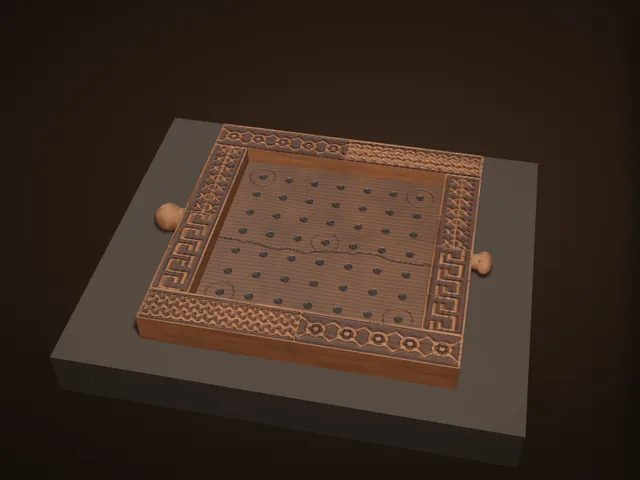
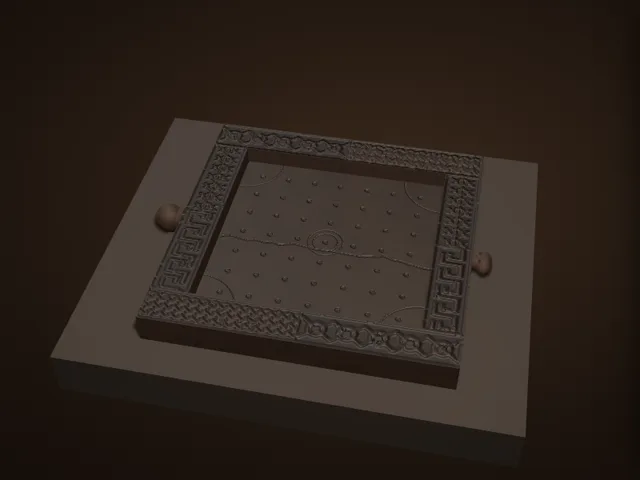
博物館：バリンダリーの盤の色・盤面の印・穴・彫りの摩耗を3Dスキャンに合わせて修正
Claude-Session: https://claude.ai/code/session_01EiWRAZTxRF5M5nk5vdR2jJ

Changed region(s): [[0.1875, 0.25, 0.7812, 0.8125]]

diff --git a/atlas/museum/ex/ballinderry.js b/atlas/museum/ex/ballinderry.js
@@ -4,7 +4,9 @@
    eight carved panels — plain five- and six-strand interlace, Borre-style ring-chain at two opposite corners, a "vertebral"
    pattern and a key pattern (NMI; 1932 report); a rough human head projecting from one edge, a smaller animal head from the
    opposite edge (handles). Estimates: the thickness and frame height (after a published replica: 2.5 cm, the frame raised
-   1.5 cm), the hole pitch, which panel sits where, the drawing of each pattern, the line of the break and the heads' features. */
+   1.5 cm), the hole pitch, which panel sits where, the drawing of each pattern, the line of the break and the heads' features.
+   2026-11-21: colour, the marks on the panel (two rings at the centre, quarter-circles across the corners), the small holes and the
+   worn relief checked against the Discovery Programme / NMI 3D scan (Sketchfab). */
 (function () {
   'use strict';
   (window.AtlasEx = window.AtlasEx || {}).ballinderry = {
@@ -13,7 +15,7 @@
       const S = 24, FW = 3.1, T0 = 1.0, T1 = 2.5, IN = S - FW * 2, P = 2.35;
       // ---- yew: warm orange-brown, darkened by a thousand years in the bog; the heartwood streaks
       const yew = (seed, dark) => K.tex(1024, 1024, (g, w, h) => {
-        K.grain(g, w, h, { a: dark ? '#3e2716' : '#5e3e26', b: dark ? '#2a1a0e' : '#3e2716', seed, sx: 1, sy: 44, warp: .22, pores: .003 });
+        K.grain(g, w, h, { a: dark ? '#2e261e' : '#3a3026', b: dark ? '#241d16' : '#271f17', seed, sx: 1, sy: 44, warp: .22, pores: .003 });   // grey-brown, as in the 3D scan
         const n = K.noise(seed + 5), img = g.getImageData(0, 0, w, h), d = img.data;
         for (let y = 0; y < h; y++) for (let x = 0; x < w; x++) { const a = n(x / 160, y / 160, 4), k = .82 + a * .3, i = (y * w + x) * 4; d[i] *= k; d[i + 1] *= k * .97; d[i + 2] *= k * .94; }
         g.putImageData(img, 0, 0);
@@ -70,36 +72,37 @@
           if (p === 'plait5') PAT.plait(b, x, y, w, h, 5); else if (p === 'plait6') PAT.plait(b, x, y, w, h, 6); else PAT[p](b, x, y, w, h);
           b.restore(); });
         // a thousand years of wear: the relief softened, chips in places
-        b.filter = 'blur(1.5px)'; b.drawImage(bc, 0, 0); b.filter = 'none';
-        b.fillStyle = 'rgba(0,0,0,.5)'; for (let q = 0; q < 26; q++) { b.beginPath(); b.ellipse(Math.random() * W, Math.random() * H, 4 + Math.random() * 16, 3 + Math.random() * 7, Math.random() * 3, 0, 6.29); b.fill(); }
+        b.filter = 'blur(3px)'; b.drawImage(bc, 0, 0); b.filter = 'none';
+        b.fillStyle = 'rgba(0,0,0,.45)'; for (let q = 0; q < 60; q++) { b.beginPath(); b.ellipse(Math.random() * W, Math.random() * H, 4 + Math.random() * 16, 3 + Math.random() * 7, Math.random() * 3, 0, 6.29); b.fill(); }
         const map = K.tex(W, H, (g, w, h) => {
           g.drawImage(frameMap.image, 0, k * 200, 1024, 136, 0, 0, w, h);
           const mk = document.createElement('canvas'); mk.width = w; mk.height = h; const mg = mk.getContext('2d');
-          mg.fillStyle = '#7d6a5a'; mg.fillRect(0, 0, w, h); mg.globalCompositeOperation = 'lighter'; mg.drawImage(bc, 0, 0);
+          mg.fillStyle = '#6e665a'; mg.fillRect(0, 0, w, h); mg.globalAlpha = .45; mg.globalCompositeOperation = 'lighter'; mg.drawImage(bc, 0, 0); mg.globalAlpha = 1;
           g.globalCompositeOperation = 'multiply'; g.drawImage(mk, 0, 0); g.globalCompositeOperation = 'source-over';
         });
         const bump = new TT.CanvasTexture(bc); bump.colorSpace = TT.NoColorSpace;
-        return K.mat({ map, bumpMap: bump, bumpScale: 4, color: '#ffffff', roughness: .72 });
+        return K.mat({ map, bumpMap: bump, bumpScale: 4, color: '#b09a84', roughness: .72 });
       };
-      const wood = K.mat({ map: frameMap, color: '#ffffff', roughness: .75 });
+      const wood = K.mat({ map: frameMap, color: '#b09a84', roughness: .75 });
       // ---- the playing panel: dark, 49 holes, arcs round the centre and corner holes, the crack across it
       const PX = 1024, crack = [];
       { let x = 0, y = PX * .56; crack.push([x, y]); while (x < PX) { x += 18 + Math.random() * 30; y += (Math.random() - .5) * 26; crack.push([x, y]); } }
       const hole = (i, j) => [PX / 2 + (i - 3) * P / IN * PX, PX / 2 + (j - 3) * P / IN * PX];
       const drawPanel = (g, bump) => {
         if (bump) { g.fillStyle = '#909090'; g.fillRect(0, 0, PX, PX); } else g.drawImage(panelMap.image, 0, 0, PX, PX);
-        const r = .3 / IN * PX, ink = bump ? '#000' : 'rgba(10,5,2,.95)', cut = bump ? '#303030' : 'rgba(30,16,8,.55)';
+        const r = .2 / IN * PX, ink = bump ? '#000' : 'rgba(14,10,6,.85)', cut = bump ? '#303030' : 'rgba(22,16,10,.6)';
         // incised arcs: a ring round the centre hole, and an arc round each corner hole
         g.strokeStyle = cut; g.lineWidth = 3.5;
-        const [cx, cy] = hole(3, 3), R = P * .48 / IN * PX; g.beginPath(); g.arc(cx, cy, R, 0, 6.29); g.stroke();
-        [[0, 0, 0], [6, 0, 1], [6, 6, 2], [0, 6, 3]].forEach(([i, j, q]) => { const [x, y] = hole(i, j); g.beginPath(); g.arc(x, y, R, 0, 6.29); g.stroke(); });
+        // (after the 3D scan: two rings round the centre hole; at each corner a quarter-circle across the corner, centred on the panel's corner)
+        const [cx, cy] = hole(3, 3), R = P * .62 / IN * PX; g.beginPath(); g.arc(cx, cy, R, 0, 6.29); g.stroke(); g.beginPath(); g.arc(cx, cy, R * .7, 0, 6.29); g.stroke();
+        const RQ = P * 1.45 / IN * PX; [[0, 0, 0], [PX, 0, 1], [PX, PX, 2], [0, PX, 3]].forEach(([x, y, q]) => { g.beginPath(); g.arc(x, y, RQ, q * Math.PI / 2, q * Math.PI / 2 + Math.PI / 2); g.stroke(); });
         for (let i = 0; i < 7; i++) for (let j = 0; j < 7; j++) { const [x, y] = hole(i, j); g.fillStyle = ink; g.beginPath(); g.arc(x, y, r, 0, 6.29); g.fill();
-          if (!bump) { g.strokeStyle = 'rgba(150,100,60,.35)'; g.lineWidth = 2; g.beginPath(); g.arc(x - 1, y - 1, r + 1.5, Math.PI, Math.PI * 1.6); g.stroke(); } }
+          if (!bump) { g.strokeStyle = 'rgba(150,130,100,.3)'; g.lineWidth = 2; g.beginPath(); g.arc(x - 1, y - 1, r + 1.5, Math.PI, Math.PI * 1.6); g.stroke(); } }
         // the break (the board was found in two pieces)
         g.strokeStyle = bump ? '#000' : 'rgba(8,4,2,.9)'; g.lineWidth = bump ? 7 : 4; g.beginPath(); crack.forEach(([x, y], k) => k ? g.lineTo(x, y) : g.moveTo(x, y)); g.stroke();
       };
       const pMap = K.tex(PX, PX, g => drawPanel(g, false)), pBump = K.tex(PX, PX, g => drawPanel(g, true), { data: true });
-      const panel = K.mat({ map: pMap, bumpMap: pBump, bumpScale: 3.5, color: '#ffffff', roughness: .7 });
+      const panel = K.mat({ map: pMap, bumpMap: pBump, bumpScale: 3.5, color: '#b09a84', roughness: .7 });
       const add = (geo, m, x, y, z) => { const o = new TT.Mesh(geo, m); o.position.set(x, y, z); o.castShadow = o.receiveShadow = true; G.add(o); return o; };
       add(new TT.BoxGeometry(IN, T0, IN), [wood, wood, panel, wood, wood, wood], 0, T0 / 2, 0);
       // the four frame sides (mitred look: the top textures meet at the corners); each top carries two carved panels
@@ -109,7 +112,7 @@
       // the heads are carved from the end grain: a softer, blotchier surface than the long grain of the frame
       const knob = K.tex(512, 256, (g, w, h) => { const n = K.noise(77), img = g.createImageData(w, h), d = img.data;
         for (let y = 0; y < h; y++) for (let x = 0; x < w; x++) { const a = n(x / 30, y / 30, 4), r = n(x / 6, y / 60, 2), k = .75 + a * .35 + (r - .5) * .12, i = (y * w + x) * 4;
-          d[i] = 92 * k; d[i + 1] = 60 * k; d[i + 2] = 36 * k; d[i + 3] = 255; } g.putImageData(img, 0, 0); });
+          d[i] = 58 * k; d[i + 1] = 46 * k; d[i + 2] = 34 * k; d[i + 3] = 255; } g.putImageData(img, 0, 0); });
       const headM = (human) => { const draw = (g, w, h, bump) => {
           if (bump) { g.fillStyle = '#808080'; g.fillRect(0, 0, w, h); } else g.drawImage(knob.image, 0, 0, w, h);
           const c = w * .25, lo = bump ? '#202020' : 'rgba(26,12,5,.7)'; g.fillStyle = lo; g.strokeStyle = lo; g.lineCap = 'round';
@@ -123,8 +126,8 @@
             [-1, 1].forEach(s => { g.beginPath(); g.ellipse(c + s * 6, h * .52, 3, 2.2, 0, 0, 6.29); g.fill(); });
           }
         };
-        return K.mat({ map: K.tex(512, 256, (g, w, h) => draw(g, w, h, false)), bumpMap: K.tex(512, 256, (g, w, h) => draw(g, w, h, true), { data: true }), bumpScale: 3, color: '#ffffff', roughness: .74 }); };
-      const knobM = K.mat({ map: knob, color: '#ffffff', roughness: .76 });
+        return K.mat({ map: K.tex(512, 256, (g, w, h) => draw(g, w, h, false)), bumpMap: K.tex(512, 256, (g, w, h) => draw(g, w, h, true), { data: true }), bumpScale: 3, color: '#b09a84', roughness: .74 }); };
+      const knobM = K.mat({ map: knob, color: '#b09a84', roughness: .76 });
       const mesh = (geo, m, x, y, z) => { const o = new TT.Mesh(geo, m); o.position.set(x, y, z); o.castShadow = o.receiveShadow = true; return o; };
       // the human head (west edge, the larger handle)
       { const h = new TT.Group(); h.position.set(-S / 2 - 1.2, 1.3, 0);

diff --git a/atlas/museum.js b/atlas/museum.js
@@ -32,7 +32,7 @@
   const ROOMS = [
     { id: 'map', ready: () => !!window.AtlasMap, render: (el, c) => AtlasMap.render(el, c) },
     { id: 'tree', src: ['museum/tree.js?v=2'], ready: () => !!window.AtlasTree, render: (el, c) => AtlasTree.render(el, c) },
-    { id: 'gallery', src: ['museum/gallery.js?v=21'], ready: () => !!window.AtlasGallery, render: (el, c) => AtlasGallery.render(el, c) },
+    { id: 'gallery', src: ['museum/gallery.js?v=22'], ready: () => !!window.AtlasGallery, render: (el, c) => AtlasGallery.render(el, c) },
   ];
   const KEY = 'atlas-museum-room';
   const esc = s => String(s == null ? '' : s).replace(/[&<>"]/g, c => ({ '&': '&amp;', '<': '&lt;', '>': '&gt;', '"': '&quot;' }[c]));

diff --git a/atlas/index.html b/atlas/index.html
@@ -2559,7 +2559,7 @@ window.AtlasRgdTimer = function (btn, ms, alive) {
 <link rel="stylesheet" href="worldmap.css?v=19">
 <link rel="stylesheet" href="museum.css?v=4">
 <script src="worldmap.js?v=40"></script>
-<script src="museum.js?v=22"></script>
+<script src="museum.js?v=23"></script>
 <script src="npc/npc.js?v=46"></script>
 <script src="avtalk.js?v=4"></script>
 <script>/* Page states as classes on <html> (2026-11-21) — html.cov-on: the 3D view / Historia / a sheet / a level sheet is open;

diff --git a/atlas/museum/gallery.js b/atlas/museum/gallery.js
@@ -10,7 +10,7 @@
    (a turn, a zoom, the slow turntable) and never while the window is in the background. */
 (function () {
   'use strict';
-  const V = 21;
+  const V = 22;
   /* ---------- the pieces: id, the game it belongs to, its scale (cm per model unit), the camera's start, the details ----------
      lock: { game, ach } → open after that many achievements of the game. src: the files the piece needs (besides ex/<id>.js) */
   const EX = [

diff --git a/claude/museum-spec.md b/claude/museum-spec.md
@@ -51,6 +51,7 @@
     記録：木画紫檀双六局（正倉院の側面写真 CO0000011755）total 14.8 → 38.3（2026-11-21、盤の側面と床脚の高さ配分、床脚の刳り形とくびれた柱、明るい床脚の材、盤面の板目・三日月・花、木画の鳥と唐草）。　追記：全体写真（441、左手前から）で 51.6（盤面の花を縁ぞいの唐草の帯に、三日月を細く大きく、床脚の材を黄褐色に）。
     記録：オスマン帝国の盤のチェス面（V&A 2012FP3719）total 10.8 → 43.1（2026-11-21、濃い鼈甲、4枚組の螺鈿のマスと中央の星、S字の鎖、骨の縁。側面に螺鈿の六角形、板の厚さを記録に合わせ2.5cmに）。
     記録：興福寺の将棋駒（文化遺産オンライン 413142 の写真）2026-11-21：木の色を暖かい黄褐色に、駒を幅と高さがほぼ同じ・肩の低い形に、墨を大きくにじませ木目に沿ってかすれさせた（数値は撮影条件が違うため目視で比較）。
+    記録：バリンダリーの盤（Discovery Programme／アイルランド国立博物館の3Dスキャン、Sketchfab）2026-11-21：灰色がかった焦げ茶の木、小さく浅い穴、中央の二重の輪と四隅をまたぐ四分円、すり減った彫りに修正（目視比較）。
   - スマホで遠目に見たときのちらつき・白飛びがないこと（カメラの near/far を狭く、テクスチャはミップマップと異方性フィルタ、トーンマップの露出 .85、重なる面は polygonOffset）。
 - 収蔵品（2026-11-21）：
   - ウルの王族のゲーム盤（大英博物館 120834）— ポータルのウルの3D盤（`atlas/models/ur.js`）をそのまま使う（実物そっくりの出来）。
